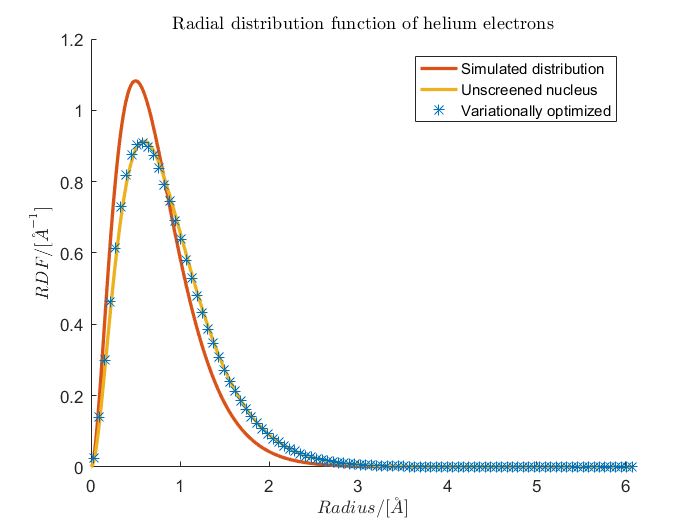
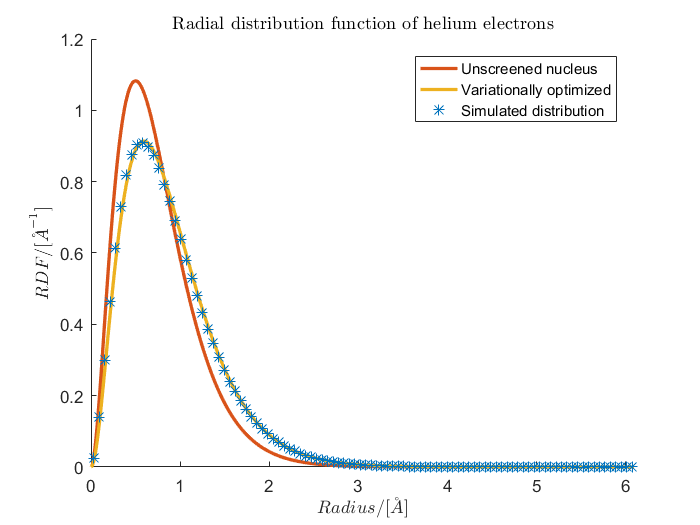
updated matlab files

Changed region(s): [[0.66, 0.1219, 0.87, 0.2438]]

diff --git a/code/Task4/main.c b/code/Task4/main.c
@@ -16,14 +16,8 @@
 double trial_wave(double*, double*, double);
 double local_energy(double*, double*, double);
 void   new_configuration(double *, double*);
-double montecarlo(int, int, double(), double(), double);
-double montecarlo_trial(int,int,double(),double(),double);
-double montecarlo_E(int,int,double(),double(),double);
 double density_probability(double,double);
-
 void montecarlo_E_trial(int,int,double(),double(),double(),double,double*);
-
-//void montecarlo_E_trial(int N ,int equilibrium_time,double (*local_e)(double*,double*,double),double(*gradient)(double*,double*,double,int),double(*prob)(double*,double*,double),double alpha,double* out)
 
 // MAIN PROGRAM
 // ------------------------------------------------------------------
@@ -39,8 +33,6 @@ int main()
     double e4pi;
     double alpha_0;
 
-
-
     // Task Specific parameters
     double A;
     double beta;
@@ -48,7 +40,7 @@ int main()
     int nbr_of_trials       =   100000;
     int nbr_of_trials_eq    =   30000;
     int max_p               =   1000;
-    int nbr_of_runs         =   5;
+    int nbr_of_runs         =   25;
 
     #define alpha_p(i,a,p) (alpha_p_arr[i*max_p*2+a*max_p+p])
     double* alpha_p_arr = (double*)malloc(2*max_p*nbr_of_runs*sizeof(double));
@@ -157,7 +149,6 @@ void new_configuration(double * r_1, double* r_2)
     }
 }
 
-
 void montecarlo_E_trial(int N ,int equilibrium_time,double (*local_e)(double*,double*,double),double(*gradient)(double*,double*,double,int),double(*prob)(double*,double*,double),double alpha,double* out)
 {
     double r_1[nbr_of_dimensions] = { 0 };
@@ -205,89 +196,6 @@ void montecarlo_E_trial(int N ,int equilibrium_time,double (*local_e)(double*,do
     out[0]=mean_energy;
     out[1]=mean_grad_trial;
     out[2]=mean_grad_trial_energy;
-}
-
-
-double montecarlo_trial(int N ,int equilibrium_time,double(*gradient)(double*,double*,double,int),double(*prob)(double*,double*,double),double alpha)
-{
-    double r_1[nbr_of_dimensions] = { 0 };
-    double r_2[nbr_of_dimensions] = { 0 };
-
-    double* energy = malloc(sizeof(double)*(N-equilibrium_time));
-
-
-    for (int i = 0; i < N; i++)
-    {
-        // Allocate memory for trial state
-        double r_1_new[nbr_of_dimensions];
-        double r_2_new[nbr_of_dimensions];
-
-        // Copy values from previous arrays
-        memcpy(r_1_new, r_1, nbr_of_dimensions*sizeof(double));
-        memcpy(r_2_new, r_2, nbr_of_dimensions*sizeof(double));
-
-        new_configuration(r_1_new, r_2_new);
-
-        double relative_prob = relative_probability(r_1_new,r_2_new,r_1,r_2,alpha,prob,nbr_of_dimensions);
-
-        double r = randq();
-        if (relative_prob > r)
-        {
-            memcpy(r_1, r_1_new, nbr_of_dimensions*sizeof(double));
-            memcpy(r_2, r_2_new, nbr_of_dimensions*sizeof(double));
-        }
-        if (i >= equilibrium_time)
-            energy[i-equilibrium_time] = gradient(r_1,r_2,alpha,nbr_of_dimensions);
-    }
-
-    double mean_energy =calc_mean(energy,N-equilibrium_time);
-
-    free (energy);
-
-    return mean_energy;
-}
-
-
-double  montecarlo_E(int N, int equilibrium_time,double (*local_e)(double*,double*,double), double (*f)(double*,double*,double), double alpha)
-{
-    double r_1[nbr_of_dimensions] = { 0 };
-    double r_2[nbr_of_dimensions] = { 0 };
-
-    double* energy = malloc(sizeof(double)*(N-equilibrium_time));
-
-
-    for (int i = 0; i < N; i++)
-    {
-        // Allocate memory for trial state
-        double r_1_new[nbr_of_dimensions];
-        double r_2_new[nbr_of_dimensions];
-
-        // Copy values from previous arrays
-        memcpy(r_1_new, r_1, nbr_of_dimensions*sizeof(double));
-        memcpy(r_2_new, r_2, nbr_of_dimensions*sizeof(double));
-
-        new_configuration(r_1_new, r_2_new);
-
-        double relative_prob = relative_probability(r_1_new,r_2_new,r_1,r_2,alpha,f,nbr_of_dimensions);
-
-
-        double r = randq();
-        if (relative_prob > r)
-        {
-            memcpy(r_1, r_1_new, nbr_of_dimensions*sizeof(double));
-            memcpy(r_2, r_2_new, nbr_of_dimensions*sizeof(double));
-        }
-        if (i >= equilibrium_time)
-            energy[i-equilibrium_time] = local_e(r_1,r_2,alpha);
-    }
-
-
-
-    double mean_energy =calc_mean(energy,N-equilibrium_time);
-
-    free (energy);
-
-    return mean_energy;
 }
 
 double density_probability(double r, double Z)

diff --git a/code/Task3/main.c b/code/Task3/main.c
@@ -17,6 +17,7 @@ double  trial_wave(double*, double*, double);
 double  local_energy(double*, double*, double);
 void    new_configuration(double *, double*);
 double  montecarlo(int, int, double(), double(), double);
+double  montecarlo_energy_out(int, int, double(), double(), double, double*);
 double  density_probability(double,double);
 
 // MAIN PROGRAM
@@ -33,15 +34,15 @@ int main()
     double e4pi;
     double alpha;
 
-    int nbr_of_trials       =   100000;
+    int nbr_of_trials       =   1000000;
 
     // Task Specific parameters
     int s;
     double alpha_min;
     double alpha_max;
 
-    int nbr_of_alpha_trials =   100;
-    int nbr_of_trials_eq    =   30000;
+    int nbr_of_alpha_trials =   25;
+    int nbr_of_trials_eq    =   300000;
     int nbr_of_runs         =   100;
 
     #define energy(i,j)  (energy_arr[j*nbr_of_alpha_trials+i])
@@ -52,18 +53,26 @@ int main()
     e           = 1;
     m_e         = 1;
     e4pi        = 1;
-    alpha       = 0.1;
-    s           = 11;
     alpha_min   = 0.05;
     alpha_max   = 0.25;
+
+    double* energy_mean_var = (double*)malloc(3*nbr_of_alpha_trials*sizeof(double));
 
     for (int i = 0; i < nbr_of_alpha_trials; i++)
     {
         double x= (double)(i)/(nbr_of_alpha_trials-1);
         alpha = calc_alpha_exp(x,alpha_min,alpha_max);
-        alpha=alpha_min-(alpha_max-alpha_min)*x;
-        double en=0;
-        for (int j = 0; j < nbr_of_runs; j++)
+        alpha=alpha_min+(alpha_max-alpha_min)*x;
+
+        double en_mean_var[2]={0};
+
+        double current_energy = montecarlo_energy_out(nbr_of_trials,nbr_of_trials_eq,local_energy, trial_wave, alpha,en_mean_var);
+        energy(0,i)= current_energy;
+        energy_mean_var[i*3+0]=alpha;
+        energy_mean_var[i*3+1]=en_mean_var[0];
+        energy_mean_var[i*3+2]=en_mean_var[1];
+
+        for (int j = 1; j < nbr_of_runs; j++)
         {
             double current_energy = montecarlo(nbr_of_trials,nbr_of_trials_eq,local_energy, trial_wave, alpha);
             energy(j,i)= current_energy;
@@ -85,7 +94,15 @@ int main()
     }
     fclose(file);
 
+    file = fopen("alpha_mean_var.dat","w");
+    for (int i = 0; i < nbr_of_alpha_trials; i++)
+    {
+        fprintf(file,"%e \t %e \t %e \n", energy_mean_var[i*3+0],energy_mean_var[i*3+1],energy_mean_var[i*3+2]);
+    }
+    fclose(file);
+
     free(energy_arr);
+    free(energy_mean_var);
     // Free the gsl random number generator
     Free_Generator();
     return 0;
@@ -186,6 +203,48 @@ double  montecarlo(int N, int equilibrium_time,double (*local_e)(double*,double*
 
     return mean_energy;
 }
+
+double  montecarlo_energy_out(int N, int equilibrium_time,double (*local_e)(double*,double*,double), double (*f)(double*,double*,double), double alpha, double* energy_mean_var)
+{
+    double r_1[nbr_of_dimensions] = { 0 };
+    double r_2[nbr_of_dimensions] = { 0 };
+
+    double* energy = malloc(sizeof(double)*(N-equilibrium_time));
+
+
+    for (int i = 0; i < N; i++)
+    {
+        // Allocate memory for trial state
+        double r_1_new[nbr_of_dimensions];
+        double r_2_new[nbr_of_dimensions];
+
+        // Copy values from previous arrays
+        memcpy(r_1_new, r_1, nbr_of_dimensions*sizeof(double));
+        memcpy(r_2_new, r_2, nbr_of_dimensions*sizeof(double));
+
+        new_configuration(r_1_new, r_2_new);
+
+        double relative_prob = relative_probability(r_1_new,r_2_new,r_1,r_2,alpha,f,nbr_of_dimensions);
+
+
+        double r = randq();
+        if (relative_prob > r)
+        {
+            memcpy(r_1, r_1_new, nbr_of_dimensions*sizeof(double));
+            memcpy(r_2, r_2_new, nbr_of_dimensions*sizeof(double));
+        }
+        if (i >= equilibrium_time)
+            energy[i-equilibrium_time] = local_e(r_1,r_2,alpha);
+    }
+
+    energy_mean_var[0] = calc_mean(energy,N-equilibrium_time);
+    energy_mean_var[1] = calc_var(energy,N-equilibrium_time);
+
+    free(energy);
+
+    return energy_mean_var[0];
+}
+
 
 double density_probability(double r, double Z)
 {

diff --git a/report/report.tex b/report/report.tex
@@ -31,7 +31,7 @@
     \label{fig:RDF}
 \end{figure}
 
-In this problem we studied a He atom using the variational Monte Carlo method with the Metropolis algorithm. In the Metropolis algorithm a new trial state is obtained by randomly displacing both electrons in all three dimensions simultaneously. The displacement is bounded by a cube with side $d$, where $d$ is a simulation parameter which was chosen as 1 \AA. Other equations used can be found in \cite{probdesc}.
+In this problem we studied a He atom using the variational Monte Carlo method with the Metropolis algorithm. In the Metropolis algorithm a new trial state is obtained by randomly displacing both electrons in all three dimensions simultaneously. The displacement is bounded by a cube with side $d$, where $d$ is a simulation parameter which was chosen as $\unit[1]{\AA}$. Other equations used can be found in \cite{probdesc}.
 
 From the obtained sample points, a radial probability distribution function could be approxiated, which can be seen in Fig.~\ref{fig:RDF} (left). Comparing the result to the variationally optimized distribution and the central field approximation result we conclude that that the results are the same as the variationally optimized distribution and that the method is working properly.
 
@@ -42,8 +42,6 @@ Transforming these sample points to spherical coordinates we can study the corre
 
 From the variational Monte Carlo we obtain the result in Fig.~\ref{fig:RDF}. This indicates a clear correlation where the $\theta$ coordinate of the electrons tends to be approximately the same. At least a slight correlation is expected, however whether it should be this strongly correlated or not, we do not know.
 
-
-
 \section*{Problem 2}
 
 \begin{figure}[H]
@@ -51,11 +49,17 @@ From the variational Monte Carlo we obtain the result in Fig.~\ref{fig:RDF}. Thi
 	\captionsetup[subfigure]{justification=centering}
 	\begin{subfigure}[b]{0.4\textwidth}
 		\centering
+		\includegraphics[width=\textwidth]{graphics/task2/local_energy.png}
+	\end{subfigure}
+	\begin{subfigure}[b]{0.4\textwidth}
+		\centering
 		\includegraphics[width=\textwidth]{graphics/task2/block_error.png}
 	\end{subfigure}
-	\caption{Estimation of the statistical inefficiency based on different block lengths}
+	\caption{\textit{Left:} The estimation of the ground state energy $E_0$ for different number of trials without equilibration, there is not much deviation in the energy for $\approx10^4$ trials. \textit{Right:} Estimation of the statistical inefficiency based on different block lengths. After the length of about 200 we can see that the statistical inefficiency $s$ deviates around 11 and starts to go slightly down for higher lengths.}
 	\label{fig:block_error}
 \end{figure}
+
+
 
 
 \section*{Problem 3}

diff --git a/code/Task1/plot_radii.m b/code/Task1/plot_radii.m
@@ -16,7 +16,7 @@ ax.ColorOrderIndex = 1;
 plot((b(1:end-1)+b(2:end))/2,h,'*')
 
 xlim([0,max(radius)])
-legend('Simulated distribution','Unscreened nucleus','Variationally optimized')
+legend('Unscreened nucleus','Variationally optimized','Simulated distribution')
 
 xlabel('$Radius / [{\AA}]$','interpreter','latex', 'fontsize', 15)
 ylabel('$RDF / [{\AA}^{-1}]$','interpreter','latex', 'fontsize', 15)

diff --git a/code/Task3/plot_alpha_energy.m b/code/Task3/plot_alpha_energy.m
@@ -2,7 +2,9 @@ clear all, close all, clc
 
 alpha_energy=importdata('alpha_avg_energy.dat');
 
-semilogx(alpha_energy(:,1),mean(alpha_energy(:,2:end),2))
+mean_alpha = mean(alpha_energy(:,2:end),2);
+
+plot(alpha_energy(:,1),mean_alpha)
 
 ylabel('Energy [$a.u.$]','interpreter','latex')
 xlabel('$\alpha$ [$\#$]','interpreter','latex')

diff --git a/code/Task2/plot_energies.m b/code/Task2/plot_energies.m
@@ -5,7 +5,7 @@ energies=importdata('energy.dat');
 x=(1:length(energies))';
 mean = cumsum(energies)./x;
 
-plot(mean)
+plot(mean(1:10000))
 
 ylabel('Energy [$a.u$]','interpreter','latex')
 xlabel('Number of trials [$\#$]','interpreter','latex')

diff --git a/code/Task3/plot_alpha_means.m b/code/Task3/plot_alpha_means.m
@@ -1,0 +1,7 @@
+clear all, clc, clf, close all
+
+alpha_mean_var=importdata('alpha_mean_var.dat');
+
+plot(alpha_mean_var(:,1),alpha_mean_var(:,2))
+
+
